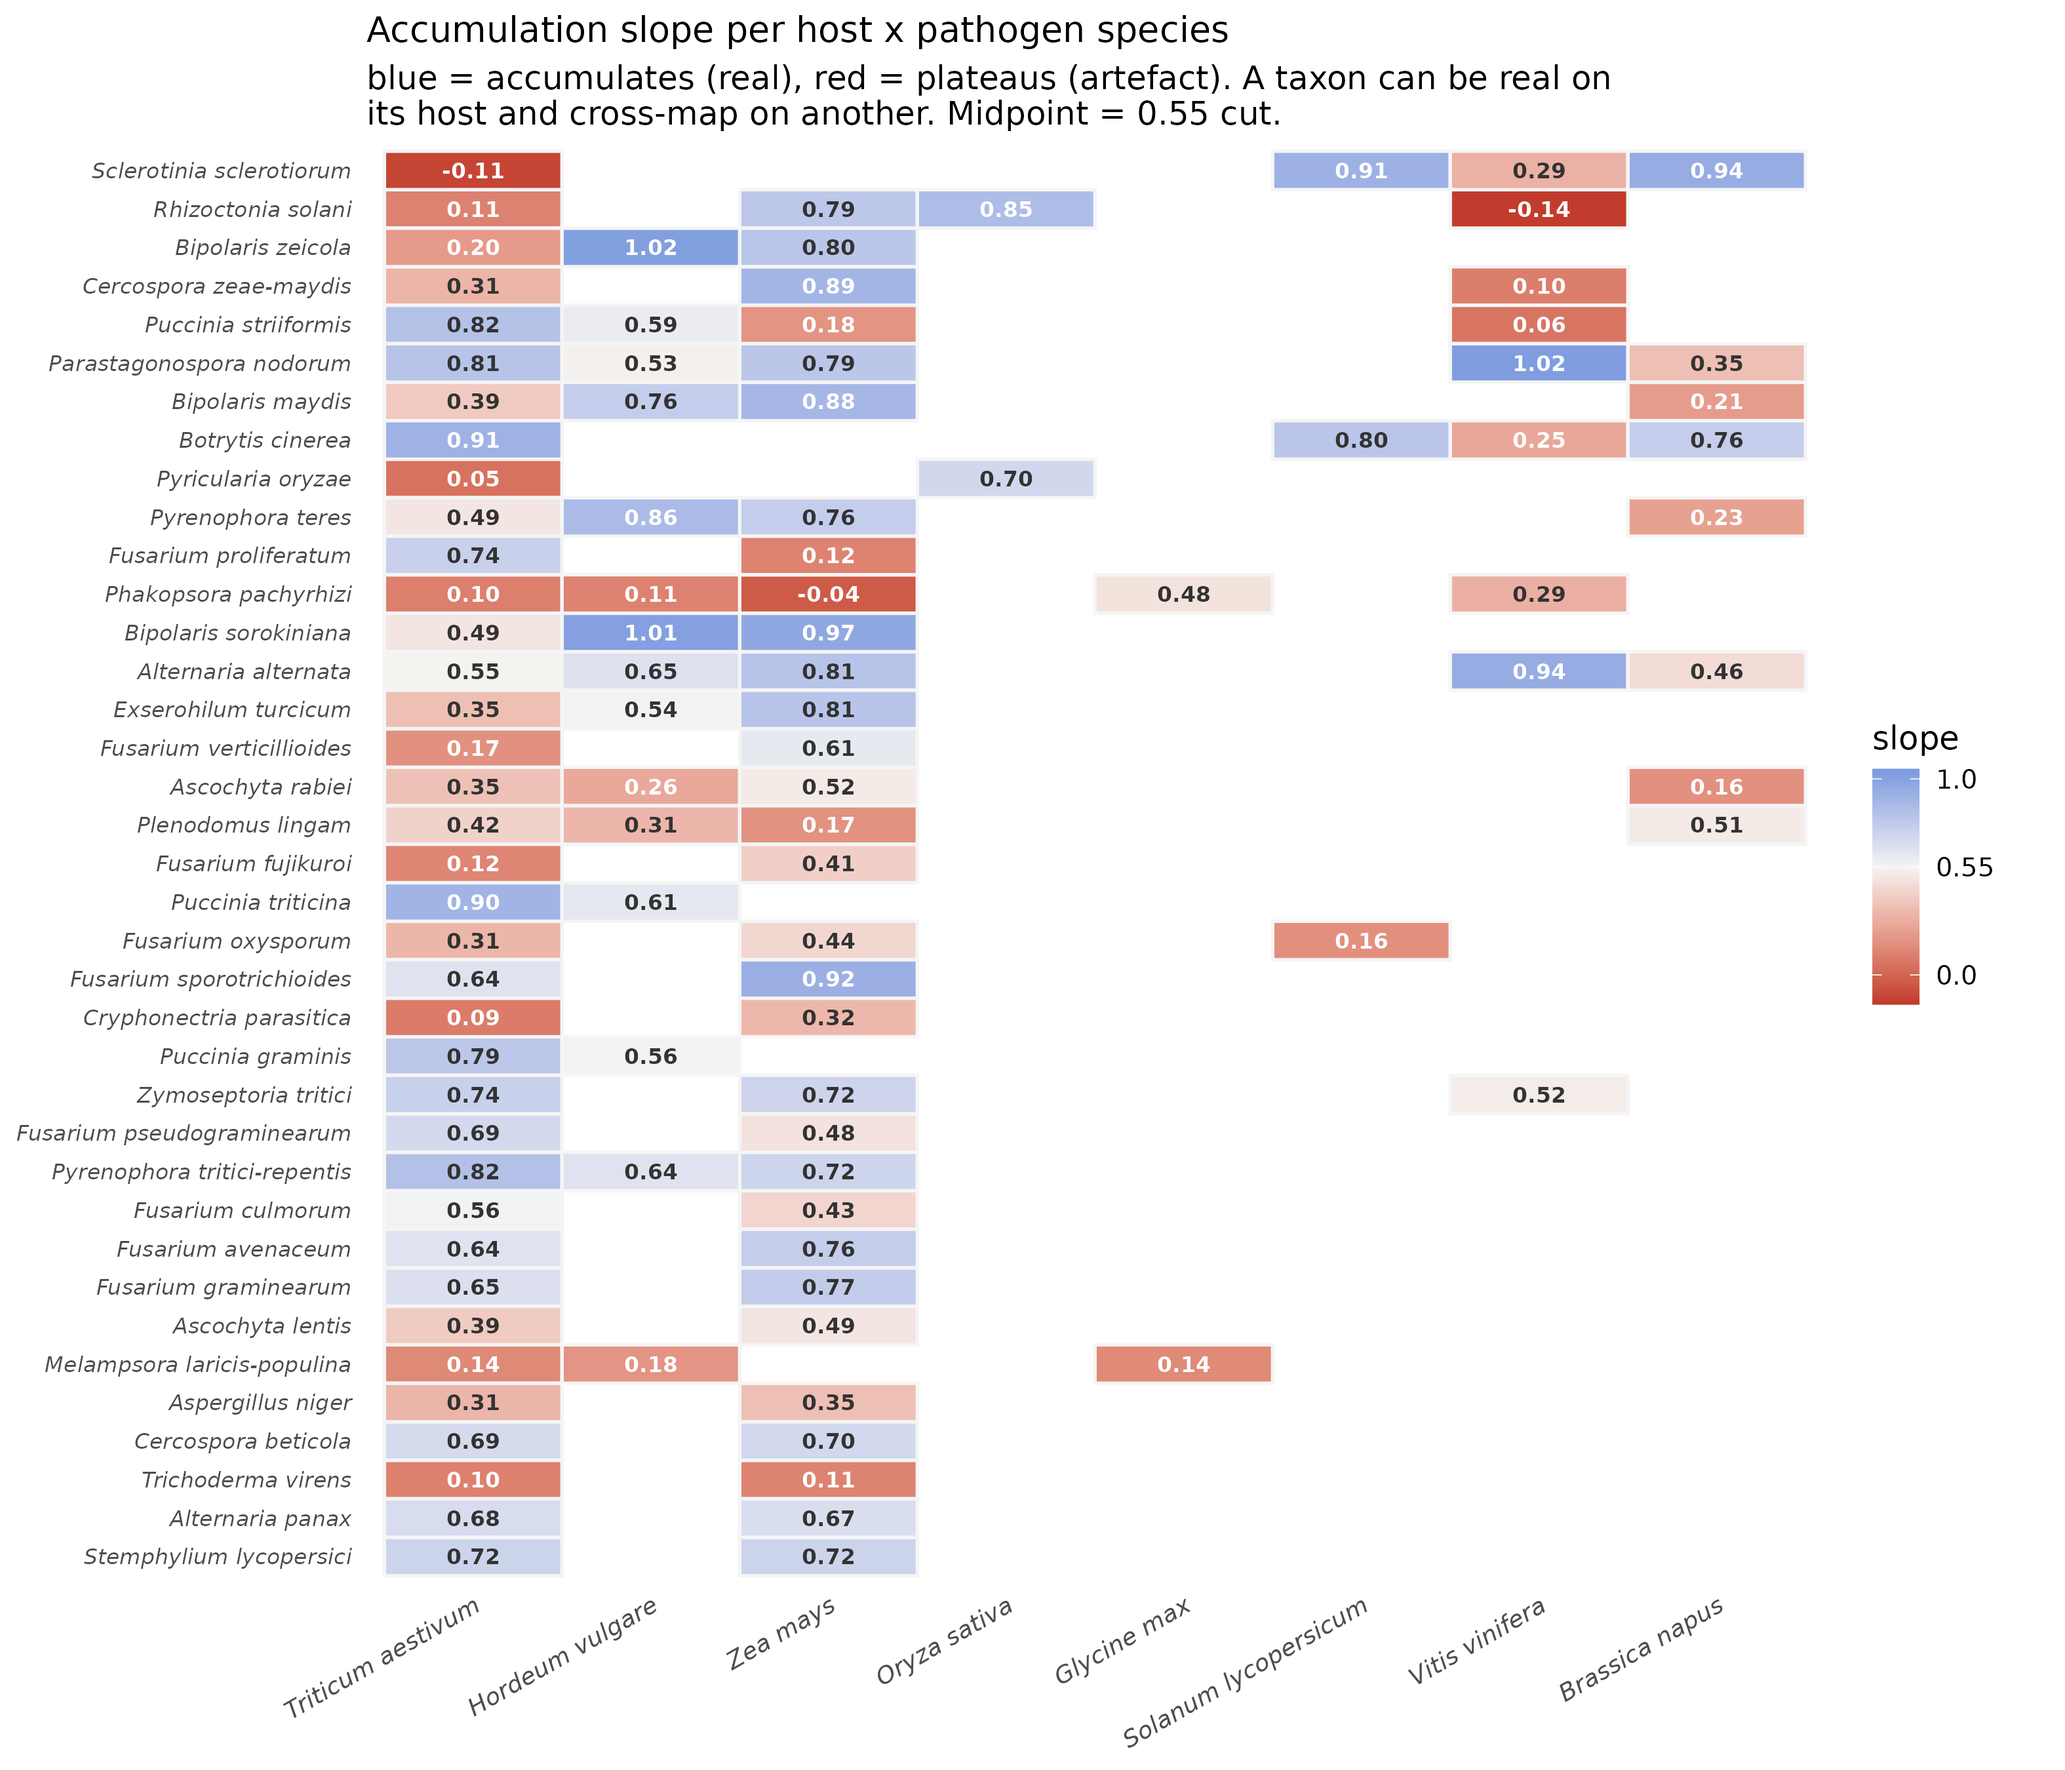
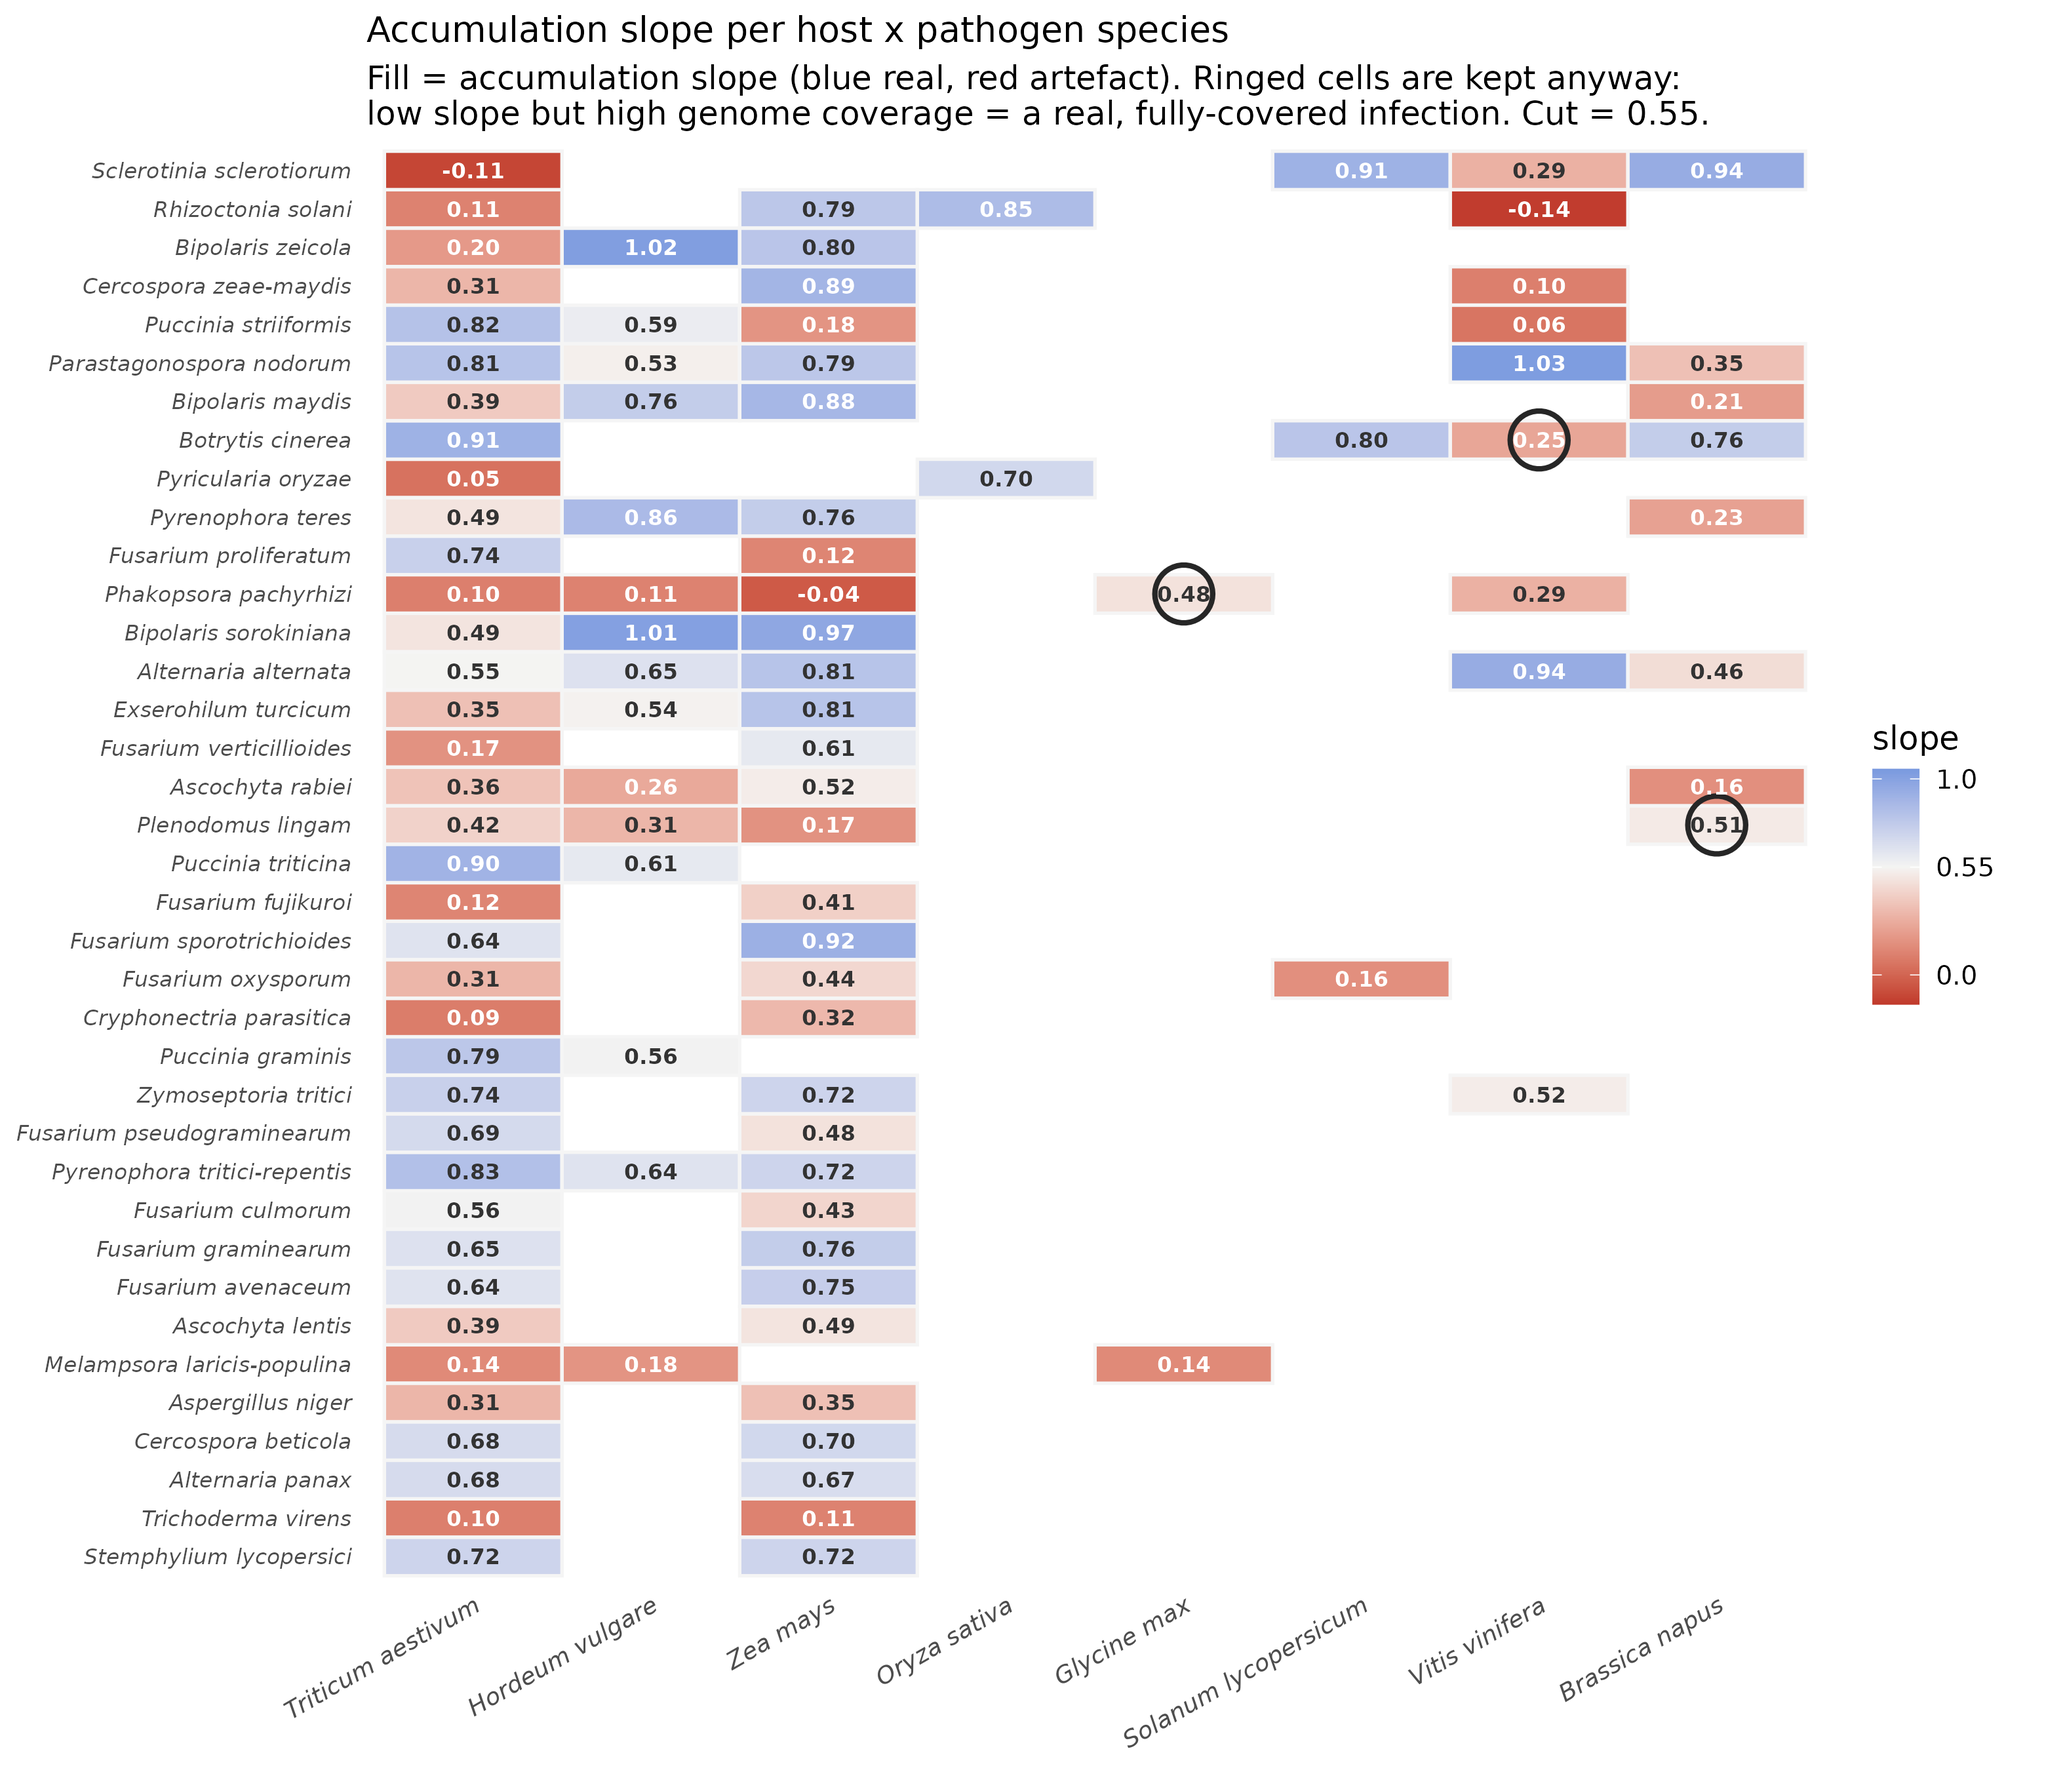
heatmap: reconcile with the combined level+slope rule
The heatmap coloured by slope alone contradicted the model on 3 cells: real infections
on their own host that are saturated (low slope) but high-coverage, so the combined rule
keeps them while slope colour showed red. Phakopsora/soybean (the README's flagship),
Botrytis/grape, Plenodomus/canola. Those cells are now ringed and the subtitle explains
they are kept on coverage. README updated to match. Figure still a slope map, now
honest about where level overrides.

diff --git a/true_detections/README.md b/true_detections/README.md
@@ -51,7 +51,9 @@ so the test is applied per host, not globally.
 Read across a row: *Sclerotinia* is real on canola and soybean (blue) but noise on wheat
 (red); stripe rust (*Puccinia striiformis*) is real on wheat but noise on maize. The
 colours track known host ranges, which is the check that the method is measuring real
-biology.
+biology. A few cells are ringed: low slope but kept anyway, because coverage is high —
+saturated real infections like soybean rust on soybean, where the whole genome is already
+seen so it can no longer grow.
 
 ## What this changes
 
